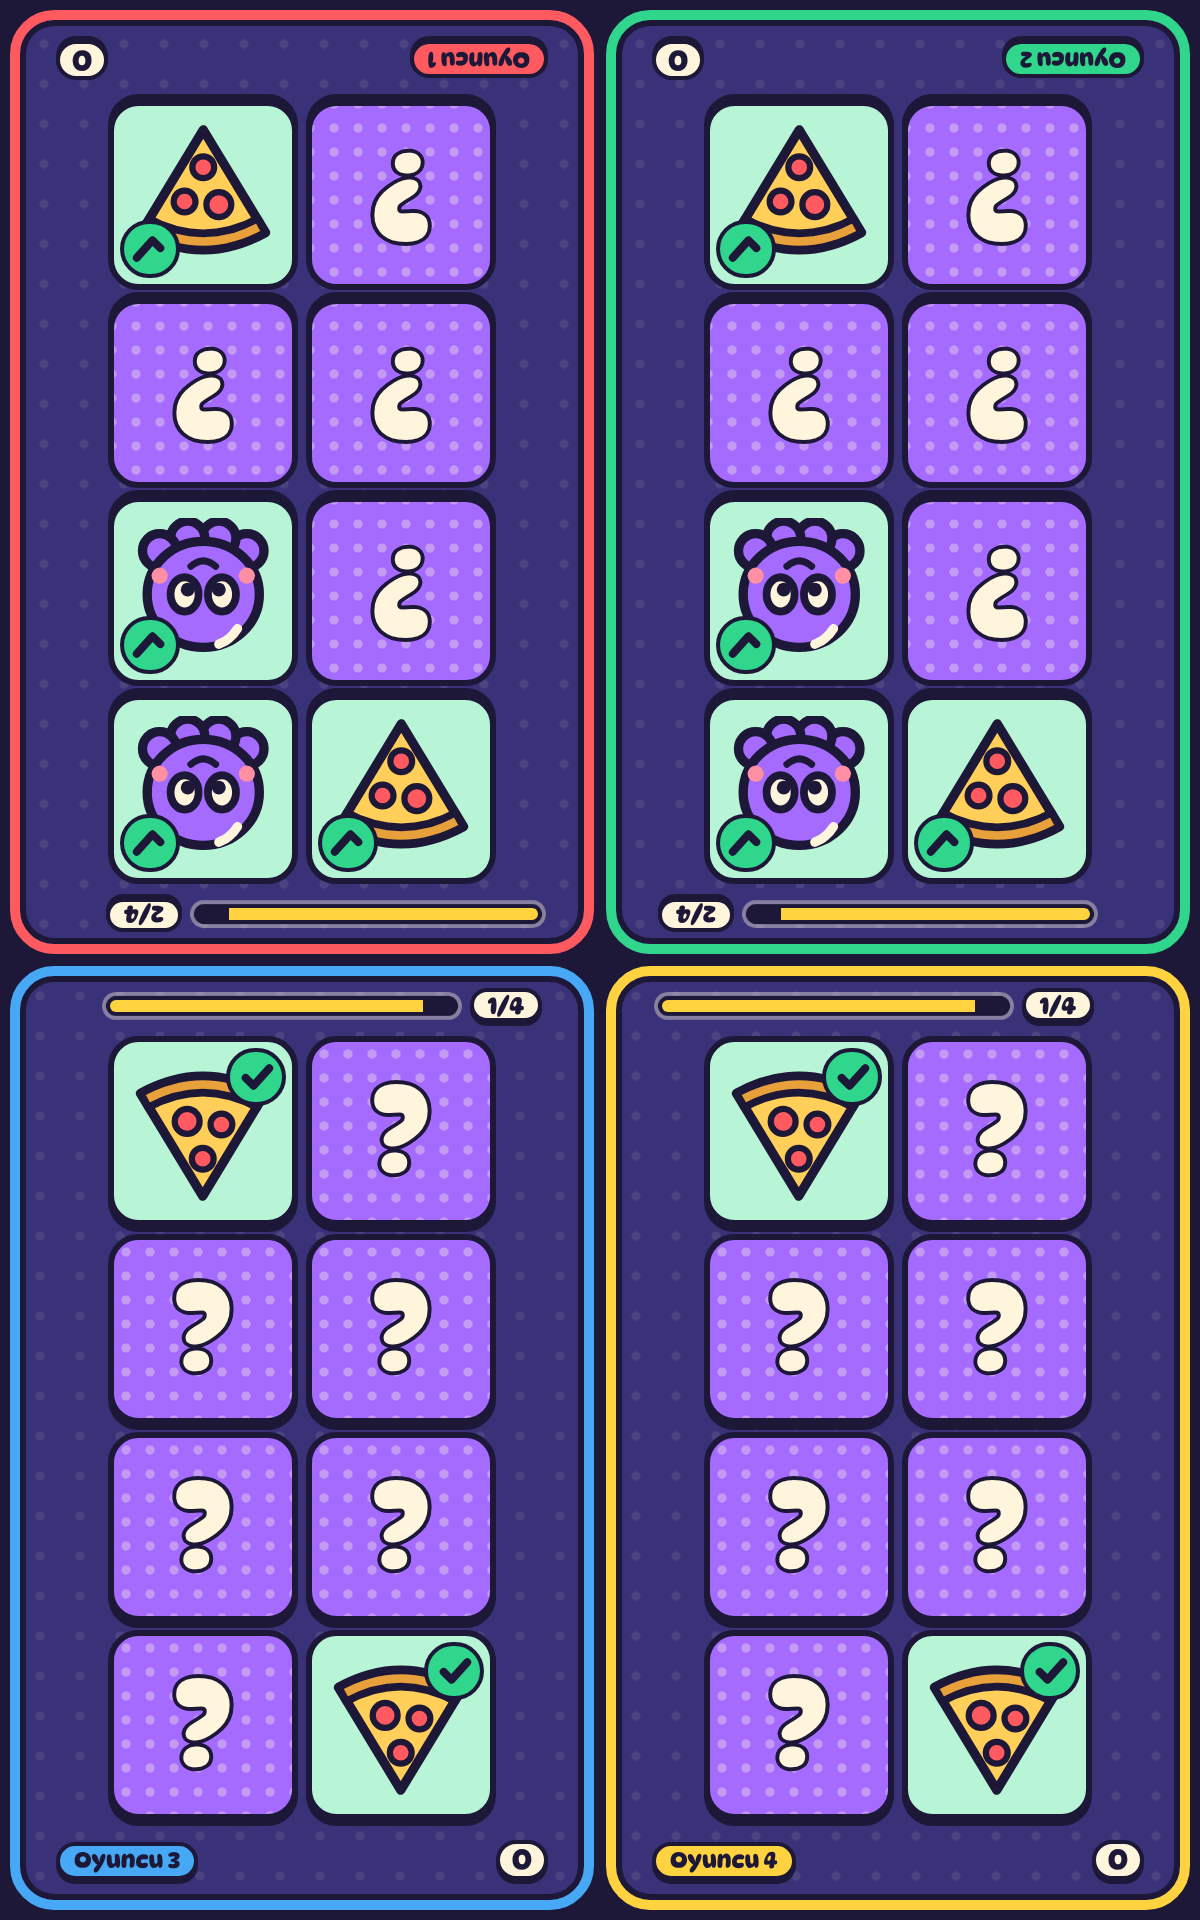
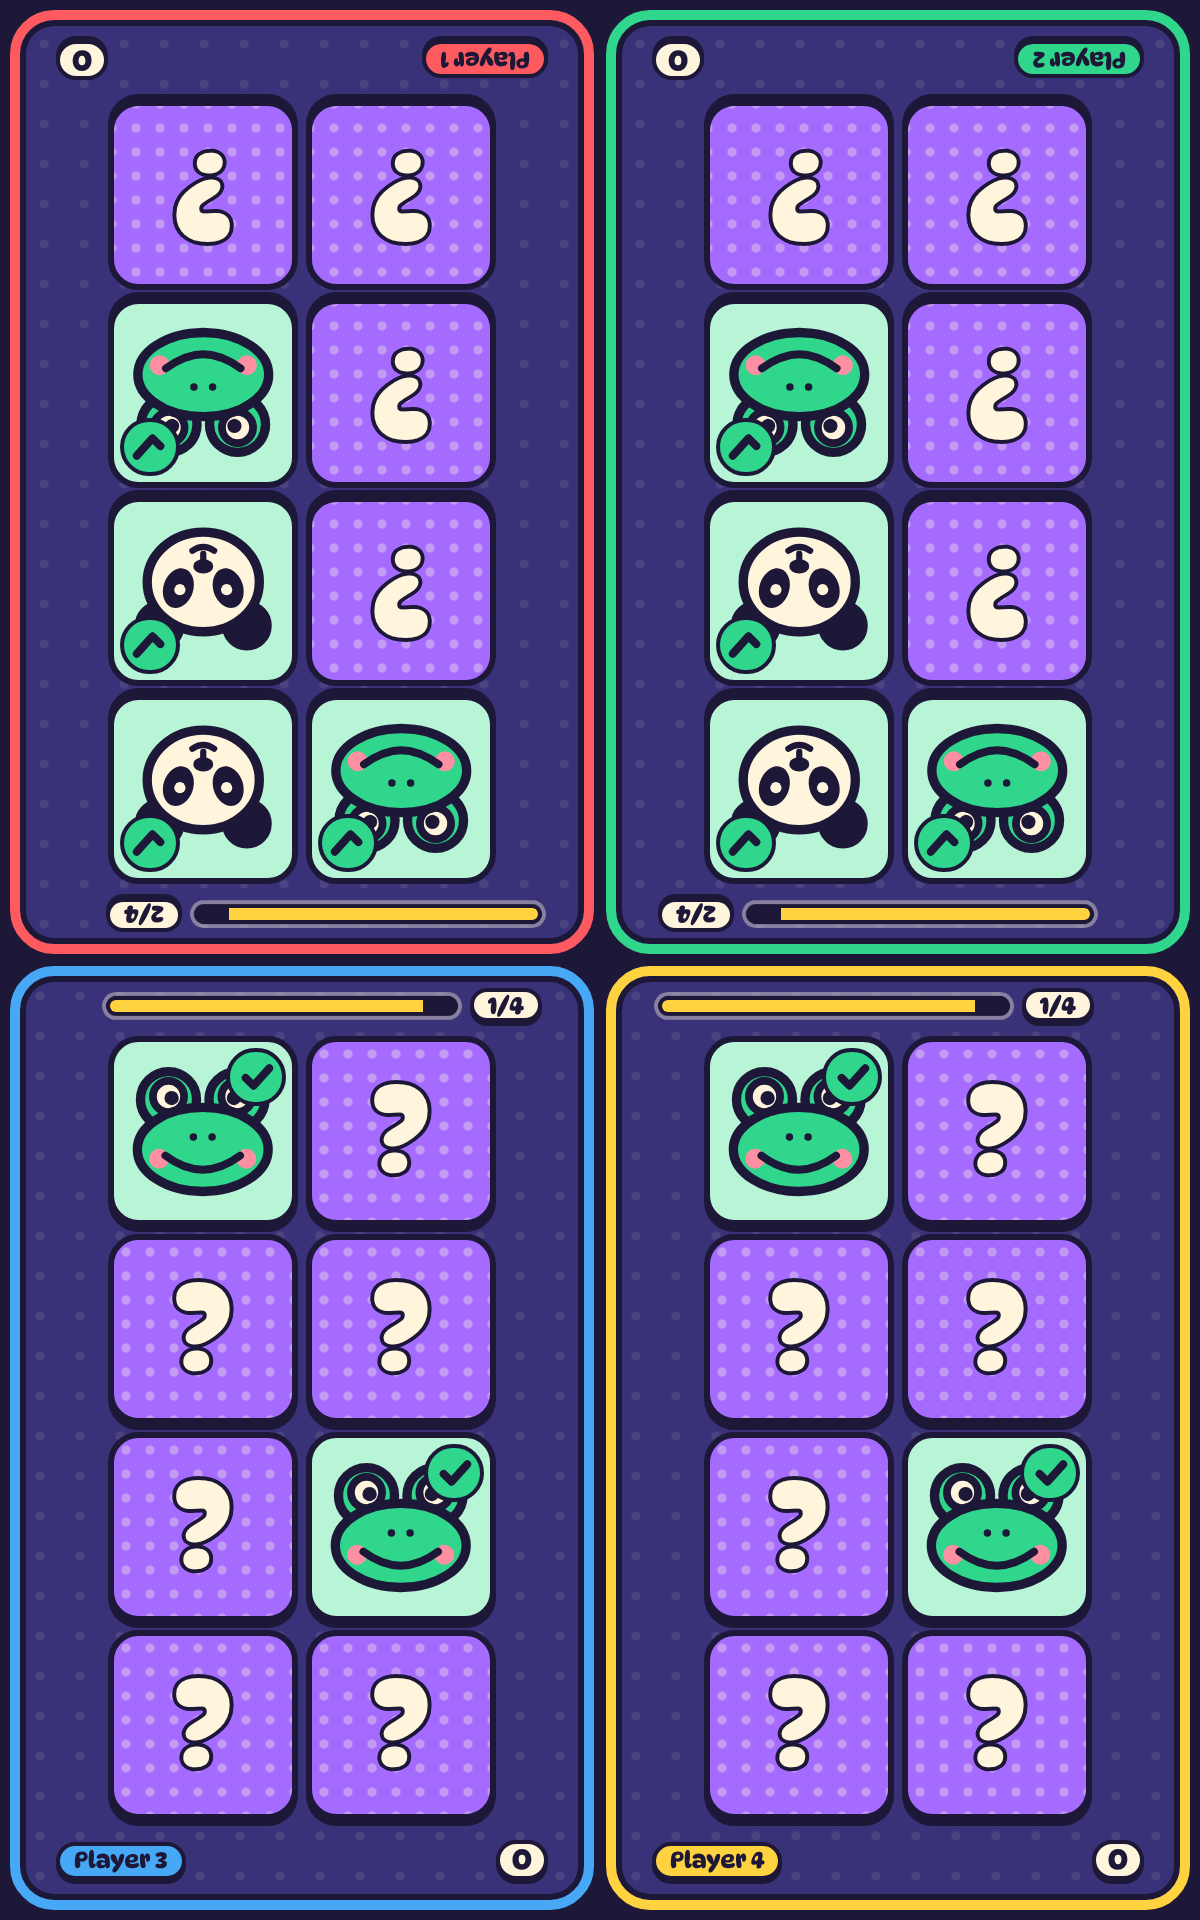
Magaza: 6 dilde liste metinleri, ekran goruntuleri (Ingilizce, Topu Bul), dil belgeleri
Claude-Session: https://claude.ai/code/session_017jLg4WuCxgozDwbKg3P343

diff --git a/store/build-store-assets.js b/store/build-store-assets.js
@@ -105,7 +105,7 @@ async function phoneShots(b, tag, vw, vh, dsf, list) {
       await p.waitForTimeout(320);                                  // bolge zemin gecisi (.15 sn) ve simge belirme animasyonu tamamlansin: dolu yesil
       await p.screenshot({ path: out('05-tepki') });
     },
-    '06-hedef-3': async () => { await startGame(p, 'Hedef Avı', 3); await p.waitForTimeout(900); await p.screenshot({ path: out('06-hedef-3') }); },
+    '06-topu-bul': async () => { await startGame(p, 'Topu Bul', 3); await p.waitForTimeout(1300); await p.screenshot({ path: out('06-topu-bul') }); },
     '07-kazanan': async () => {
       await p.evaluate(() => { __dokun.quitMatch(); __dokun.setup(2); __dokun.scores[0] = 5; __dokun.scores[1] = 2; __dokun.finish(); });
       await p.waitForTimeout(1500); await p.screenshot({ path: out('07-kazanan') });
@@ -146,7 +146,7 @@ async function phoneShots(b, tag, vw, vh, dsf, list) {
 (async () => {
   const b = await chromium.launch();
   await featureGraphic(b);
-  const ALL = ['01-menu', '02-tur-karti', '03-ritim', '04-hafiza-4', '05-tepki', '06-hedef-3', '07-kazanan', '08-oyun-sec', '09-cevrimici'];
+  const ALL = ['01-menu', '02-tur-karti', '03-ritim', '04-hafiza-4', '05-tepki', '06-topu-bul', '07-kazanan', '08-oyun-sec', '09-cevrimici'];
   await phoneShots(b, 'phone', 360, 640, 3, ALL);              // 1080x1920
   await phoneShots(b, 'tablet7', 600, 960, 2, ['01-menu', '03-ritim', '04-hafiza-4']);   // 1200x1920
   await phoneShots(b, 'tablet10', 800, 1280, 2, ['01-menu', '03-ritim', '04-hafiza-4']); // 1600x2560

diff --git a/store/listing-fr.md b/store/listing-fr.md
@@ -1,0 +1,40 @@
+# Fiche Google Play — Français
+
+**Nom de l'appli (30 caractères max.) :** Touch! Mini-jeux de soirée
+
+**Description courte (80 caractères max.) :**
+Duels de mini-jeux rapides à 2-4 sur un téléphone ou entre téléphones proches.
+
+**Description complète (4000 caractères max.) :**
+
+Touch! est un jeu de soirée composé de mini-jeux rapides, qui se terminent en quelques secondes et se jouent sur le même écran avec vos amis. Posez le téléphone sur la table, que chacun prenne sa zone, et c'est parti avec 3-2-1 !
+
+🎮 20 MINI-JEUX
+• Réaction : le premier à toucher quand ça passe au vert gagne. Ne tombez pas dans le piège du faux signal jaune !
+• Tape Rapide, Course de Tuiles, Glisse la Direction : qui a les doigts les plus rapides ?
+• Pile au Centre : arrêtez la balle qui glisse au plus près de la bande verte.
+• Chasse aux Cibles, Rythme, Chasse à la Taupe : soyez rapide, précis et en rythme.
+• Ordre des Nombres, Taquin, L'Intrus, Paires de Mémoire : gardez yeux, esprit et mémoire affûtés.
+• Piège des Couleurs, Calcul Express, Sens de la Flèche, Combien ? : une course d'agilité mentale.
+• Jeu de Lumières, Suite de Couleurs, Maintiens et Relâche, Trouve la Balle : timing et attention.
+
+👥 2, 3 OU 4 JOUEURS
+L'écran se divise selon le nombre de joueurs ; les textes sont retournés pour le joueur d'en face, afin que chacun lise confortablement de son côté. Le multitouch est pris en charge.
+
+🏆 MODES
+• Classique : un nombre de manches fixé, celui qui a le plus de points gagne.
+• Course : le premier à atteindre le score cible gagne.
+• Survie : celui qui ne gagne pas la manche perd une vie, le dernier en lice gagne.
+• Équipe : 4 joueurs, 2 contre 2.
+Chaque joueur choisit sa couleur (6 couleurs : rouge, vert, bleu, jaune, violet, rose). Avec Partie Mixte, les jeux arrivent dans un ordre aléatoire, ou choisissez vos jeux préférés avec Choisir les Jeux.
+
+📡 VOTRE PROPRE ÉCRAN SUR CHAQUE TÉLÉPHONE
+2 à 4 téléphones sur le même réseau Wi-Fi (ou le point d'accès d'un téléphone) se connectent avec un court code de salon. Pas besoin d'internet, pas d'inscription.
+
+✨ AUTRES
+• Pas de pub, pas de compte, aucune collecte de données
+• Musique et effets sonores pour chaque jeu, retour par vibration
+• Pause, réglages, noms des joueurs
+• Jouable entièrement hors ligne
+
+Allez, qui est le plus rapide ?

diff --git a/store/listing-es.md b/store/listing-es.md
@@ -1,0 +1,40 @@
+# Ficha de Google Play — Español
+
+**Nombre de la app (máx. 30 caracteres):** Touch! Minijuegos Fiesta
+
+**Descripción breve (máx. 80 caracteres):**
+Duelos rápidos de minijuegos para 2-4 en un móvil o con móviles cercanos.
+
+**Descripción completa (máx. 4000 caracteres):**
+
+Touch! es un juego de fiesta formado por minijuegos rápidos, que duran unos pocos segundos y se juegan en la misma pantalla con tus amigos. Deja el móvil sobre la mesa, que cada uno se siente en su zona y empieza con 3-2-1.
+
+🎮 20 MINIJUEGOS
+• Reacción: gana el primero en tocar cuando se ponga verde. ¡No caigas en la falsa señal amarilla!
+• Toque Rápido, Carrera de Baldosas, Desliza la Dirección: ¿quién tiene los dedos más rápidos?
+• Justo al Centro: detén la bola deslizante lo más cerca posible de la franja verde.
+• Caza de Objetivos, Ritmo, Atrapa el Topo: sé rápido, preciso y sigue el compás.
+• Orden Numérico, Puzle Deslizante, El Diferente, Parejas de Memoria: mantén ojos, mente y memoria despiertos.
+• Trampa de Color, Mates Rápidas, Dirección de Flecha, A Contar: una carrera de agilidad mental.
+• Juego de Luces, Secuencia de Colores, Mantén y Suelta, Encuentra la Bola: puntería de tiempo y atención.
+
+👥 2, 3 O 4 JUGADORES
+La pantalla se divide según el número de jugadores; los textos se giran para el jugador de enfrente, así todos leen cómodamente desde su lado. Compatible con multitoque.
+
+🏆 MODOS
+• Clásico: un número fijo de rondas, gana quien más puntos consiga.
+• Carrera: gana el primero en llegar a la puntuación objetivo.
+• Supervivencia: quien no gane la ronda pierde una vida, gana el último en pie.
+• Equipos: 4 jugadores, 2 contra 2.
+Cada jugador elige su color (6 colores: rojo, verde, azul, amarillo, morado, rosa). Con Partida Mixta los juegos salen en orden aleatorio, o con Elegir Juegos escoges tus favoritos.
+
+📡 TU PROPIA PANTALLA EN CADA MÓVIL
+De 2 a 4 móviles en la misma red Wi-Fi (o en el punto de acceso de un móvil) se conectan con un código de sala corto. No necesitas internet ni registrarte.
+
+✨ MÁS
+• Sin anuncios, sin cuentas, sin recopilación de datos
+• Música y efectos de sonido para cada juego, respuesta con vibración
+• Pausa, ajustes, nombres de jugadores
+• Se puede jugar totalmente sin conexión
+
+¡Vamos, a ver quién es más rápido!

diff --git a/store/listing-pt.md b/store/listing-pt.md
@@ -1,0 +1,40 @@
+# Página do Google Play — Português (Brasil)
+
+**Nome do app (máx. 30 caracteres):** Touch! Minijogos de Festa
+
+**Descrição curta (máx. 80 caracteres):**
+Duelos rápidos de minijogos para 2-4 em um celular ou com celulares próximos.
+
+**Descrição completa (máx. 4000 caracteres):**
+
+Touch! é um jogo de festa feito de minijogos rápidos, que acabam em poucos segundos e são jogados na mesma tela com os amigos. Coloque o celular na mesa, cada um fica na sua área e comece com 3-2-1!
+
+🎮 20 MINIJOGOS
+• Reação: quem tocar primeiro quando ficar verde ganha. Não caia no falso sinal amarelo!
+• Toque Rápido, Corrida de Blocos, Deslize a Direção: quem tem os dedos mais rápidos?
+• Bem no Centro: pare a bola deslizante o mais perto possível da faixa verde.
+• Caça ao Alvo, Ritmo, Acerte a Toupeira: seja rápido, preciso e siga o ritmo.
+• Ordem dos Números, Quebra-cabeça Deslizante, O Diferente, Pares da Memória: mantenha olhos, mente e memória afiados.
+• Armadilha de Cores, Matemática Rápida, Direção da Seta, Conte Aí: uma corrida de agilidade mental.
+• Jogo de Luzes, Sequência de Cores, Segure e Solte, Ache a Bola: tempo certo e atenção.
+
+👥 2, 3 OU 4 JOGADORES
+A tela se divide conforme o número de jogadores; os textos são girados para quem está do lado oposto, e assim todos leem com conforto do seu lado. Há suporte a multitoque.
+
+🏆 MODOS
+• Clássico: um número definido de rodadas, quem fizer mais pontos vence.
+• Corrida: quem chegar primeiro à pontuação-alvo vence.
+• Sobrevivência: quem não vencer a rodada perde uma vida, o último de pé vence.
+• Equipes: 4 jogadores, 2 contra 2.
+Cada jogador escolhe sua cor (6 cores: vermelho, verde, azul, amarelo, roxo, rosa). Com Partida Mista os jogos vêm em ordem aleatória, ou escolha seus favoritos em Escolher Jogos.
+
+📡 SUA PRÓPRIA TELA EM CADA CELULAR
+De 2 a 4 celulares na mesma rede Wi-Fi (ou no ponto de acesso de um celular) se conectam com um código de sala curto. Sem precisar de internet e sem cadastro.
+
+✨ MAIS
+• Sem anúncios, sem contas, sem coleta de dados
+• Música e efeitos sonoros para cada jogo, resposta com vibração
+• Pausa, configurações, nomes dos jogadores
+• Dá para jogar totalmente offline
+
+Vamos lá, quem é mais rápido?

diff --git a/store/listing-de.md b/store/listing-de.md
@@ -1,0 +1,40 @@
+# Google-Play-Eintrag — Deutsch
+
+**App-Name (max. 30 Zeichen):** Touch! Party-Minispiele
+
+**Kurzbeschreibung (max. 80 Zeichen):**
+Schnelle Minispiel-Duelle für 2-4 an einem Handy oder mit Handys in der Nähe.
+
+**Vollständige Beschreibung (max. 4000 Zeichen):**
+
+Touch! ist ein Partyspiel aus schnellen Minispielen, die nur wenige Sekunden dauern und mit Freunden auf demselben Bildschirm gespielt werden. Handy auf den Tisch legen, jeder setzt sich in seine Zone, und los geht's mit 3-2-1!
+
+🎮 20 MINISPIELE
+• Reaktion: Wer zuerst tippt, wenn es grün wird, gewinnt. Fall nicht auf das falsche gelbe Signal herein!
+• Schnelltipp, Kachellauf, Wisch-Richtung: Wer hat die schnellsten Finger?
+• Genau in die Mitte: Stoppe die rollende Kugel so nah wie möglich am grünen Band.
+• Zieljagd, Rhythmus, Maulwurf-Jagd: Sei schnell, treffsicher und im Takt.
+• Zahlenfolge, Schiebepuzzle, Der Außenseiter, Gedächtnis-Paare: Halte Augen, Verstand und Gedächtnis fit.
+• Farbfalle, Kopfrechnen, Pfeilrichtung, Zähl mal: Ein Wettlauf der geistigen Beweglichkeit.
+• Lichtspiel, Farbfolge, Halten und Loslassen, Finde die Kugel: Timing und Aufmerksamkeit.
+
+👥 2, 3 ODER 4 SPIELER
+Der Bildschirm teilt sich nach Spielerzahl auf; Texte werden für den Gegenüber gedreht, damit jeder bequem von seiner Seite lesen kann. Multitouch wird unterstützt.
+
+🏆 MODI
+• Klassisch: Eine feste Rundenzahl, wer die meisten Punkte hat, gewinnt.
+• Wettlauf: Wer zuerst die Zielpunktzahl erreicht, gewinnt.
+• Überleben: Wer die Runde nicht gewinnt, verliert ein Leben, der Letzte im Spiel gewinnt.
+• Team: 4 Spieler, 2 gegen 2.
+Jeder Spieler wählt seine eigene Farbe (6 Farben: Rot, Grün, Blau, Gelb, Lila, Pink). Mit Gemischtes Match kommen die Spiele in zufälliger Reihenfolge, oder du wählst mit Spiele wählen deine Lieblingsspiele aus.
+
+📡 AUF JEDEM HANDY DEIN EIGENER BILDSCHIRM
+2-4 Handys im selben WLAN (oder im Hotspot eines Handys) verbinden sich mit einem kurzen Raumcode. Kein Internet nötig, keine Registrierung nötig.
+
+✨ WEITERES
+• Keine Werbung, keine Konten, keine Datenerfassung
+• Musik und Soundeffekte für jedes Spiel, Vibrationsfeedback
+• Pause, Einstellungen, Spielernamen
+• Komplett offline spielbar
+
+Los, wer ist schneller?

diff --git a/store/listing-en.md b/store/listing-en.md
@@ -1,0 +1,40 @@
+# Google Play store listing — English
+
+**App name (max 30 characters):** Touch! Party Mini Games
+
+**Short description (max 80 characters):**
+Quick mini-game duels for 2-4 players on one phone or on nearby phones.
+
+**Full description (max 4000 characters):**
+
+Touch! is a party game made of quick mini games, each over in a few seconds, played on the same screen with your friends. Put the phone on the table, everyone take your zone, and start with 3-2-1!
+
+🎮 20 MINI GAMES
+• Reaction: The first to tap when it turns green wins. Don't fall for the fake yellow signal!
+• Rapid Tap, Tile Run, Swipe Direction: Who has the fastest fingers?
+• Dead Center: Stop the sliding ball as close to the green band as you can.
+• Target Hunt, Rhythm, Whack-a-Mole: Be quick, accurate and on the beat.
+• Number Order, Slider Puzzle, Odd One Out, Memory Match: Keep your eyes, mind and memory sharp.
+• Color Trap, Quick Math, Arrow Direction, Count Them: A race of mental agility.
+• Light Game, Color Sequence, Hold and Release, Find the Ball: Timing and attention.
+
+👥 2, 3 OR 4 PLAYERS
+The screen splits by number of players; text is flipped for the player across from you, so everyone reads comfortably from their own side. Multi-touch is supported.
+
+🏆 MODES
+• Classic: A set number of rounds, the highest score wins.
+• Race: The first to reach the target score wins.
+• Survival: Whoever doesn't win the round loses a life, the last one standing wins.
+• Team: 4 players, 2 vs 2.
+Each player picks their own color (6 colors: red, green, blue, yellow, purple, pink). With Mixed Match the games come in random order, or use Pick Games to choose your favorite game(s).
+
+📡 YOUR OWN SCREEN ON EVERY PHONE
+2-4 phones on the same Wi-Fi network (or a phone hotspot) connect with a short room code. No internet needed, no sign-up needed.
+
+✨ MORE
+• No ads, no accounts, no data collection
+• Music and sound effects for every game, vibration feedback
+• Pause, settings, player names
+• Playable completely offline
+
+Come on, who's faster?

diff --git a/README.md b/README.md
@@ -107,3 +107,6 @@ Telefona kurmak için "bilinmeyen kaynaklardan yüklemeye" izin vermek gerekir. 
 ## Yayın
 `.github/workflows/pages.yml` varsayılan daldaki `index.html` dosyasını GitHub Pages'e yayınlar.
 Bir kez: depo → Settings → Pages → Source: **GitHub Actions**.
+
+## Diller
+Arayüz 6 dilde: Türkçe, English, Español, Deutsch, Français, Português. Varsayılan dil İngilizcedir (Ayarlar > Dil'den değişir; seçim kaydedilir ve sayfa yeniden yüklenir). Metinler kodda Türkçe yazılıdır; diğer diller `i18n/<dil>.json` sözlükleriyle çalışma anında çevrilir (`i18n/keys.json` kaynak metin listesi, `python3 i18n/embed.py` sözlükleri `index.html`'e gömer). Değişken metinler `{0}` kalıplarıyla eşlenir. İngilizce adı ve tüm dillerde uygulama adı: Touch!. Mağaza metinleri: `store/listing-*.md`.

diff --git a/PLAY_CONSOLE.md b/PLAY_CONSOLE.md
@@ -24,7 +24,7 @@ Hazır cevaplar: `store/data-safety.md` (Veri güvenliği, reklam, erişim, içe
 - Hedef kitle: 13 yaş ve üzeri (çocuklara yönelik değil)
 
 ## 4) Mağaza girişi
-- Metinler: `store/listing-tr.md` (ad, kısa ve tam açıklama)
+- Metinler: `store/listing-tr.md` (Türkçe), `listing-en/es/de/fr/pt.md` (diğer diller) (ad, kısa ve tam açıklama)
 - Görseller: `store/out/` altında hazır — `icon-512.png` (uygulama simgesi), `feature-graphic-1024x500.png` (öne çıkan görsel), `screenshots/` (telefon ekran görüntüleri; en az 2, en çok 8)
 - Kategori: Oyunlar → Parti. İletişim e-postası: kendi e-postan (herkese açık gösterilir).
 
